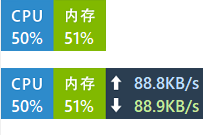
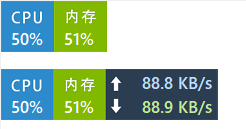
皮肤11 UI调整，修正显示不全的问题；新增皮肤 金山悬浮窗 (2)

diff --git a/皮肤下载.md b/皮肤下载.md
@@ -39,6 +39,10 @@
 ![](https://github.com/zhongyang219/TrafficMonitorSkin/blob/master/skins/金山悬浮窗.png)<br>
 [点此下载](https://github.com/zhongyang219/TrafficMonitorSkin/blob/master/skins/%E9%87%91%E5%B1%B1%E6%82%AC%E6%B5%AE%E7%AA%97.zip?raw=true)<br>
 <br>
+**金山悬浮窗 (2)**<br>
+![](https://github.com/zhongyang219/TrafficMonitorSkin/blob/master/skins/金山悬浮窗%20(2).png)<br>
+[点此下载](https://github.com/zhongyang219/TrafficMonitorSkin/blob/master/skins/%E9%87%91%E5%B1%B1%E6%82%AC%E6%B5%AE%E7%AA%97%20(2).zip?raw=true)<br>
+<br>
 **LT01**<br>
 ![](https://github.com/zhongyang219/TrafficMonitorSkin/blob/master/skins/LT01.PNG)<br>
 皮肤作者：[LT](https://github.com/zuilintan)<br>
